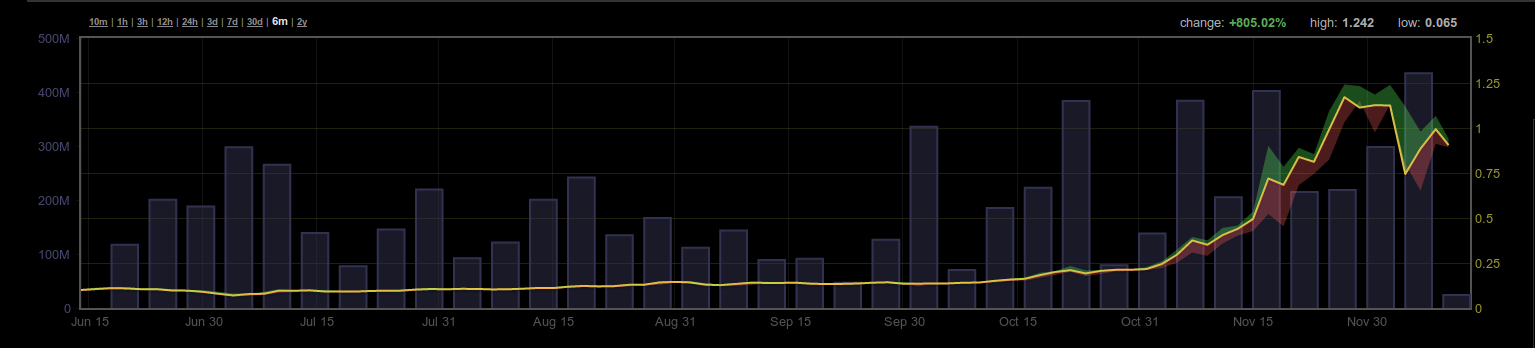
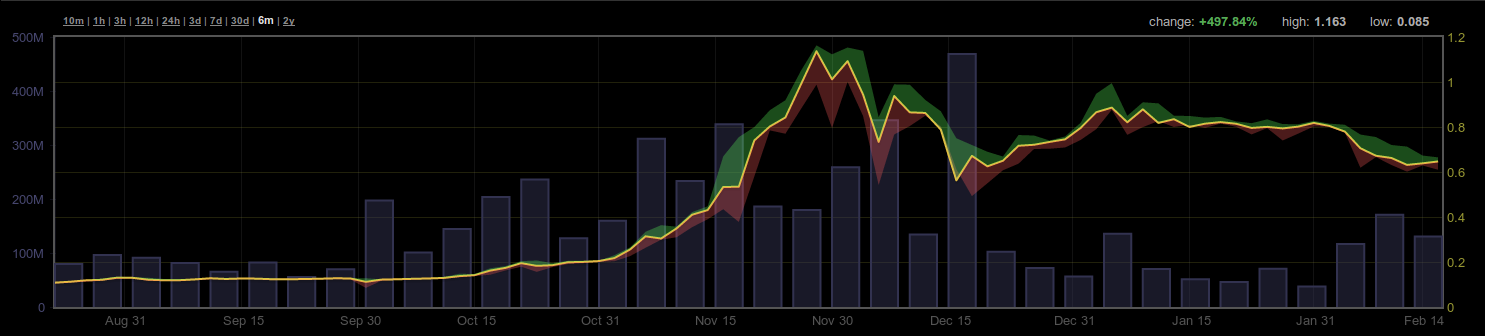
Updated slides for presentation
- New date
 - Updated graph with more recent prices

diff --git a/bitcoin.html b/bitcoin.html
@@ -4,7 +4,7 @@
   <meta charset="utf-8">
   <meta name="generator" content="pandoc">
   <meta name="author" content="Brian Peck" />
-  <meta name="dcterms.date" content="2013-12-13" />
+  <meta name="dcterms.date" content="2013-02-18" />
   <title>Bitcoin</title>
   <meta name="apple-mobile-web-app-capable" content="yes" />
   <meta name="apple-mobile-web-app-status-bar-style" content="black-translucent" />
@@ -24,7 +24,7 @@
 <section>
     <h1 class="title">Bitcoin</h1>
     <h2 class="author">Brian Peck</h2>
-    <h3 class="date">December 13, 2013</h3>
+    <h3 class="date">February 18, 2013</h3>
 </section>
 
 <section class="slide level2">

diff --git a/bitcoin.md b/bitcoin.md
@@ -1,6 +1,6 @@
 % Bitcoin
 % Brian Peck
-% December 13, 2013
+% February 18, 2013
 
 <!--Image credit: http://i.imgur.com/HH9mqRc.jpg h/t r/bitcoin -->
 ![Jeopardy](images/jeopardy.png)
